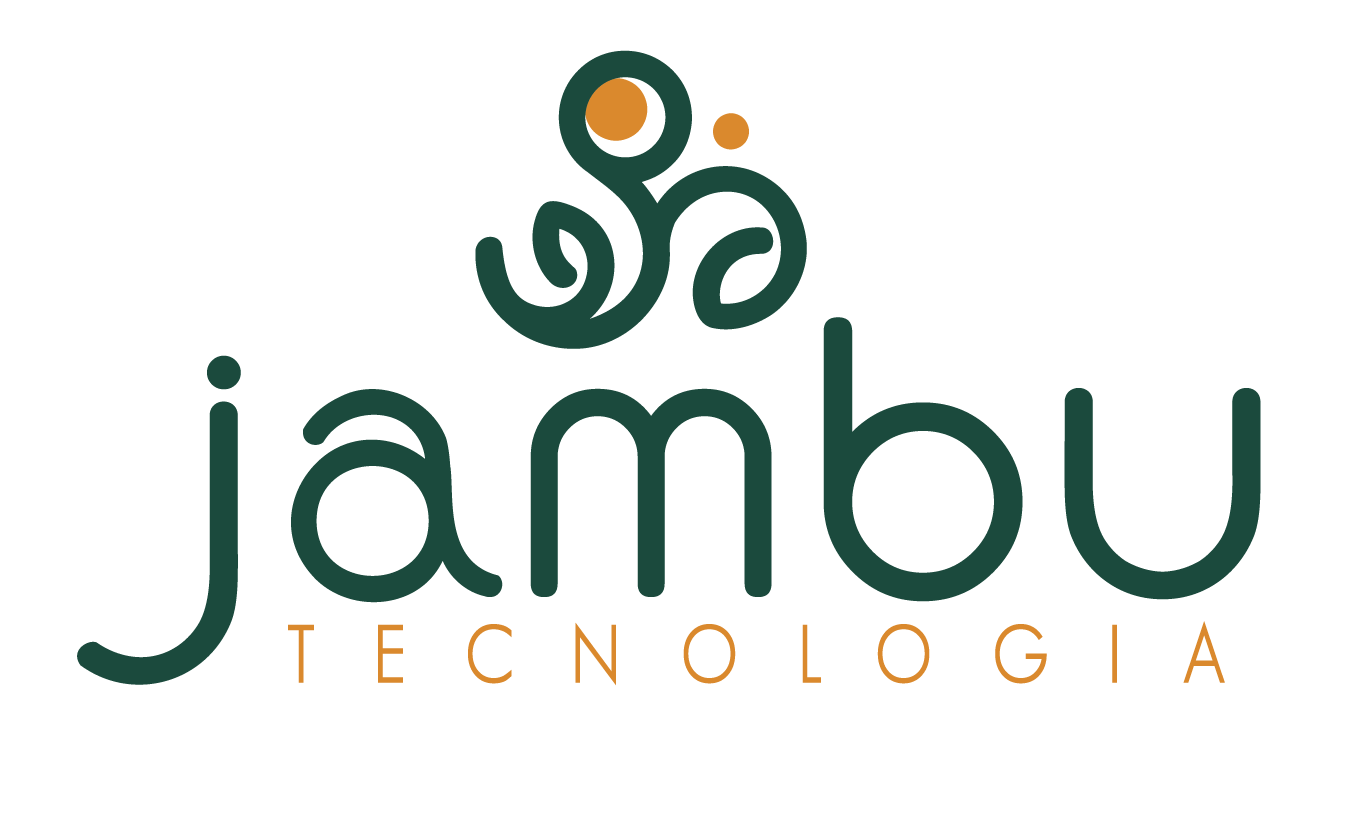
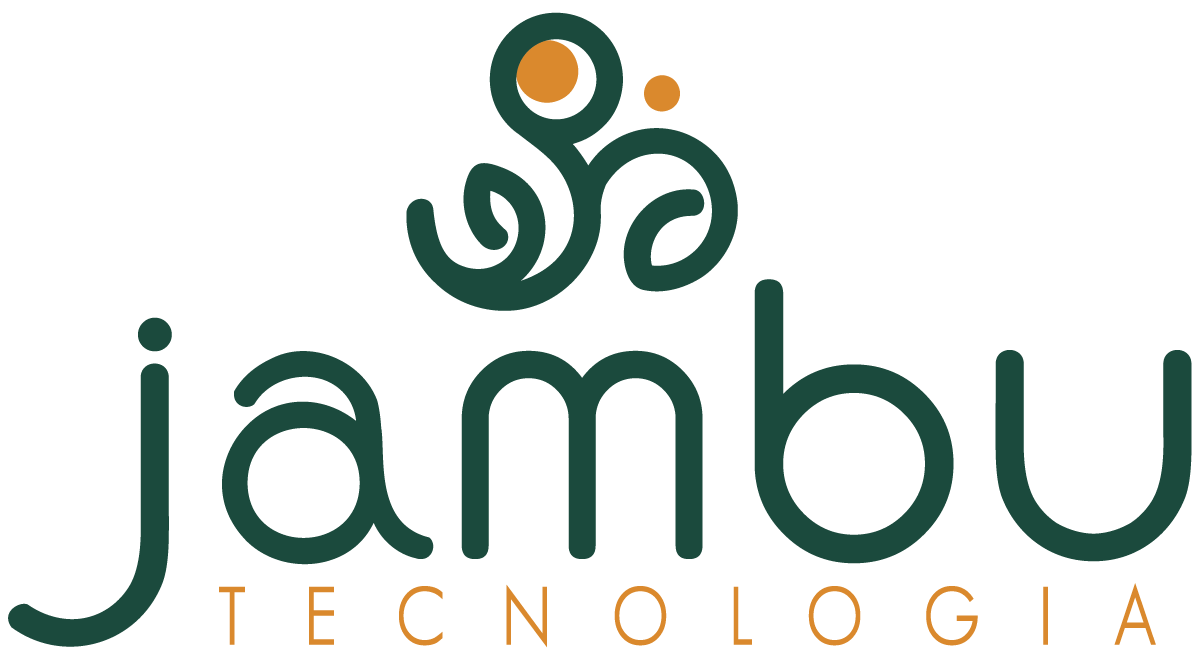
padronizacao do tamanho das imagens dos patrocinadores

diff --git a/_includes/partners.html b/_includes/partners.html
@@ -20,9 +20,9 @@
             <h5>{{ partner.group }}</h5>
             <ul class="list-inline">
                 {% for element in partner.elements %}
-                <li {% if element.width != null %}style="width: {{ element.width }};"{% endif %}>
+                <li style="width: {{ element.width }}; height: {{ element.height }};">
                     <a href="{{ element.link }}" target="_blank">
-                        <img src="{{ site.baseurl }}/img/partners/{{ element.imageUrl }}" title="{{ element.description }}" alt="{{ element.name }}">
+                        <img src="{{ site.baseurl }}/img/partners/{{ element.imageUrl }}" title="{{ element.description }}" alt="{{ element.name }}" width={{ element.width }} height={{ element.height }}>
                     </a>
                 </li>
                 {% endfor %}
@@ -30,7 +30,7 @@
             {% endfor %}
             <a href="{{ site.c4sponsorsUrl | prepend: site.baseurl }}" class="btn btn-primary waves-effect waves-button waves-light waves-float">{{ site.partnersC4sponsorsButton }}</a>
         </div>
-    </div> 
+    </div>
 </section>
 <!-- End Partners Section -->
 
